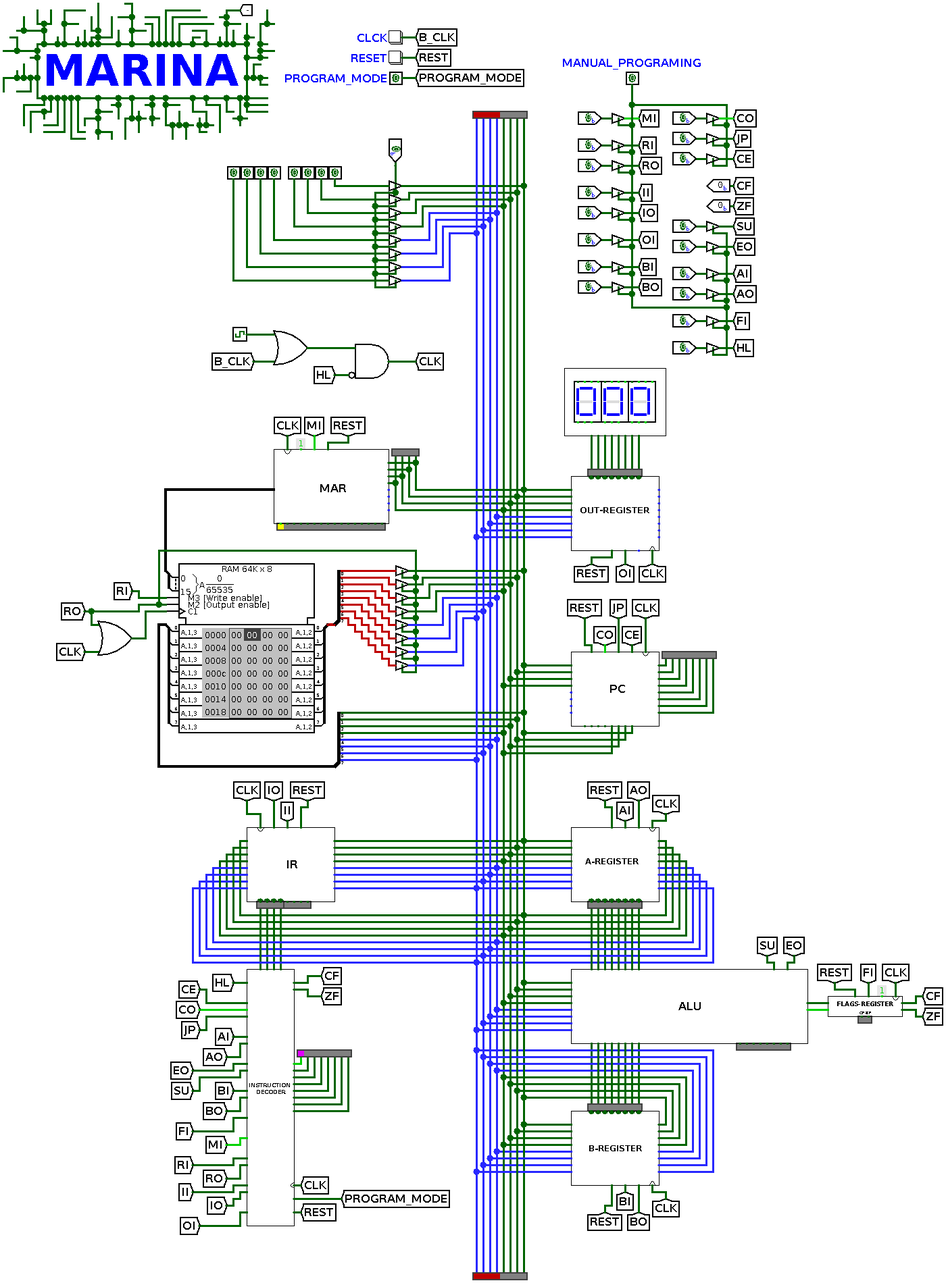
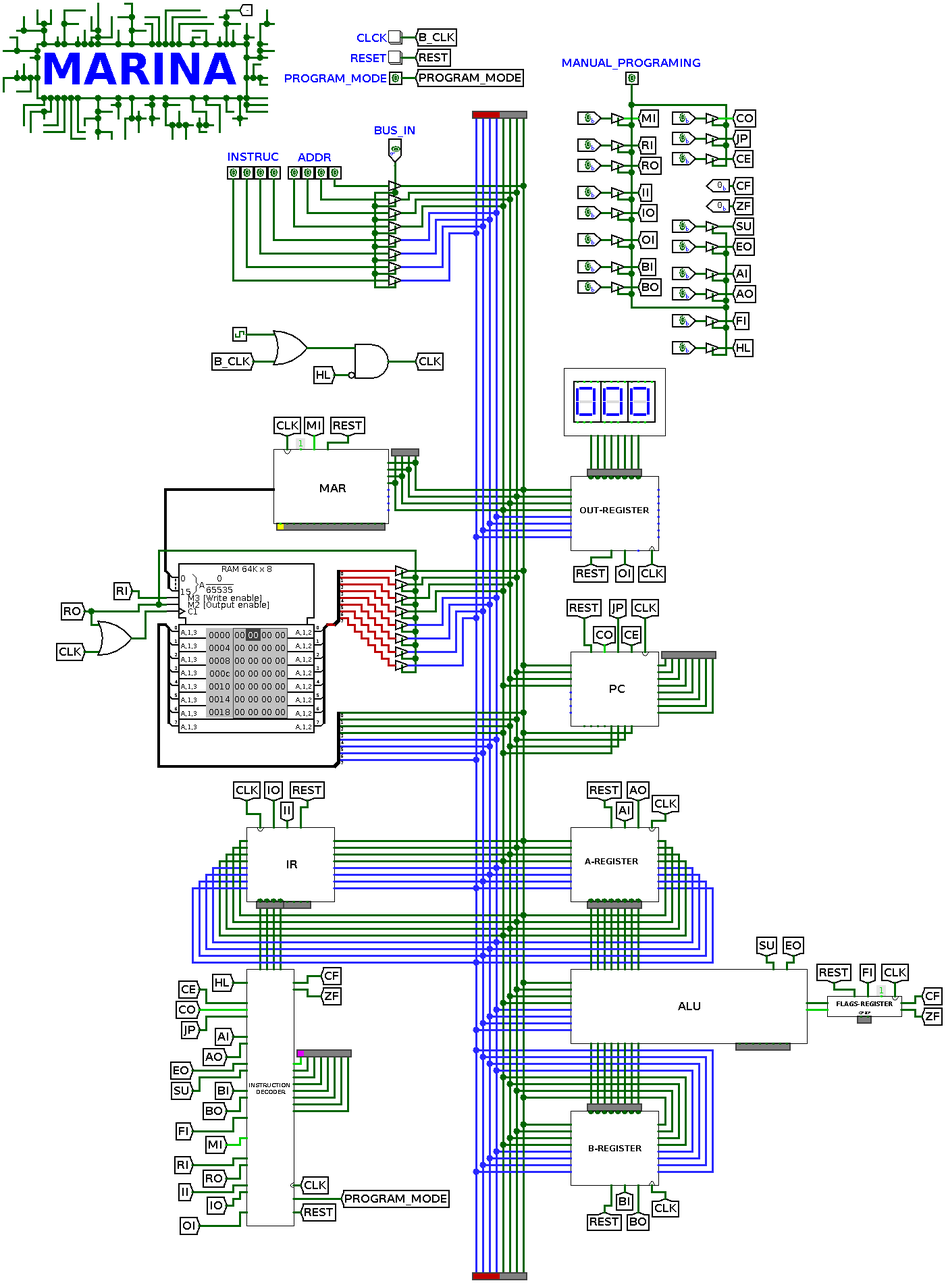
Updating README

diff --git a/README.md b/README.md
@@ -2,23 +2,23 @@
 
 ![](assets/imgs/components/marina-full.png)
 
-Este proyecto trata sobre como crear un ordenador de 8bits, que cumpla los requisitos de una máquina de turing:
+Este proyecto trata sobre como crear un ordenador de 8bits, que cumpla los requisitos de una máquina de Turing:
 
 * Leer/Escribir caracteres de una memoria
 * Poder moverse por esa memoria
-* Actuar en base a unos estados definidos
+* Actuar con base en unos estados definidos
 
 Una vez nuestro ordenador cumpla todos estos requisitos, estaremos seguros de que podra ejecutar cualquier algoritmo de computación.
 
-Todo esto inspirado por la serie de videos de Ben Eater y contado por mi.
+Todo esto inspirado por la serie de videos de Ben Eater y contado por mí.
 
 ## Problema
 
 Queremos hacer un ordenador así que necesitaremos resolver estas cuestiones:
 
 1. ¿Dónde lo vamos a montar?
-2. ¿Qué diseño tendra el circuito?
-3. ¿Cuál es la base teorica detras de los ordenadores?
+2. ¿Qué diseño tendrá el circuito?
+3. ¿Cuál es la base teórica detrás de los ordenadores?
 4. ¿Qué componentes necesitamos para la parte practica?
 5. ¿Cómo se programa?
 
@@ -26,17 +26,17 @@ Queremos hacer un ordenador así que necesitaremos resolver estas cuestiones:
 
 ### 1º Cuestión:
 
-Para crear el circuito de nuestro ordenador usaremos un programa de simulación de circuitos, en este caso yo he elegido logisim-evolution, pero se puede utilizar otro si lo quereis.
+Para crear el circuito de nuestro ordenador usaremos un programa de simulación de circuitos, en este caso yo he elegido logisim-evolution, pero se puede utilizar otro si lo queréis.
 
 ### 2º Cuestión:
 
-A la hora de elegir que forma tendra el circuito se habren una infinidad de diseños, pero en lo personal prefiero usar uno basado en un BUS. Más concretamente el patrón SAP.
+A la hora de elegir que forma tendrá el circuito se abren una infinidad de diseños, pero en lo personal prefiero usar uno basado en un BUS. Más concretamente el patrón SAP.
 
 ![](assets/imgs/SAP.png)
 
 ### 3º Cuestión:
 
-Estamos siguiendo los pasos para crear un ordenador, pero. ¿Qué es un ordenador?, pues segun wikipedia es: `una máquina electrónica digital programable que ejecuta una serie de comandos para procesar los datos de entrada, obteniendo convenientemente información que posteriormente se envía a las unidades de salida`. Y eso es cierto, pero lo que yo quiero es la definición de su modelo teorico fundamental, la máquina de Turing.
+Estamos siguiendo los pasos para crear un ordenador, pero. ¿Qué es un ordenador?, pues según Wikipedia es: `una máquina electrónica digital programable que ejecuta una serie de comandos para procesar los datos de entrada, obteniendo convenientemente información que posteriormente se envía a las unidades de salida`. Y eso es cierto, pero lo que yo quiero es la definición de su modelo teórico fundamental, la máquina de Turing.
 
 #### ¿Qué es la máquina de Turing?
 
@@ -52,18 +52,18 @@ Y ahora con una tabla más compleja:
 
 ![](assets/imgs/turing_machine_complex.gif)
 
-Simple ¿no?, pues solo con estas mecanicas tan cencillas se puede ejecutar cualquier algoritmo de computación. Y la verdad, suena a que es mentira o imposible, pero no lo es:
+Simple ¿no?, pues solo con estas mecánicas tan sencillas se puede ejecutar cualquier algoritmo de computación. Y la verdad, suena a que es mentira o imposible, pero no lo es:
 
-En terminos generales lo que hace la maquina es leer datos de una memoria y actuar en base a ellos siguiendo unas instrucciones predefinidas. ¿No os suena familiar?, es como programar un ordenador, este tambien manipula una memoria siguiendo unas instrucciones/estados que le hemos dado.
+En términos generales, lo que hace la máquina es leer datos de una memoria y actuar con base en ellos siguiendo unas instrucciones predefinidas. ¿No os suena familiar?, es como programar un ordenador, este también manipula una memoria siguiendo unas instrucciones/estados que le hemos dado.
 
-Ahora con todo este contexto podemos decir que:
+Ahora, con todo este contexto, podemos decir que:
 
 * Sabemos que es y que hace la máquina de Turing
-* Que un ordenador moderno no es más que una máquina de Turing extremadamente compleja que funciona con circuitos electronicos
+* Que un ordenador moderno no es más que una máquina de Turing extremadamente compleja que funciona con circuitos electrónicos
 
 ### 4º Cuestión:
 
-Ahora para llevar acabo su construcción necesitaremos los siguientes componentes:
+Ahora, para llevar a cabo su construcción necesitaremos los siguientes componentes:
 
 #### `CLOCK`
 
@@ -81,7 +81,7 @@ Es un registro que guarda un número que puede incrementar y decrementar, para m
 
 #### `MAR`
 
-Es el registro de direccion de la memoria, almacena un número de 4bits y lo decodifica en 16  direcciones de memoria posibles. Para usarlo como dirección actual de la memoria.
+Es el registro de dirección de la memoria, almacena un número de 4bits y lo decodifica en 16 direcciones de memoria posibles. Para usarlo como dirección actual de la memoria.
 
 ![](assets/imgs/components/MAR.png)
 
@@ -111,7 +111,7 @@ Almacena el número que la ALU suma o resta al REGISTRO A.
 
 #### `ALU`
 
-Es la encargada de hacer las operaciones aritmeticas(+,-), con los REGISTROS A y B.
+Es la encargada de hacer las operaciones aritméticas(+,-), con los REGISTROS A y B.
 
 ![](assets/imgs/components/alu.png)
 
@@ -119,7 +119,7 @@ Es la encargada de hacer las operaciones aritmeticas(+,-), con los REGISTROS A y
 
 #### `FLAGS REGISTER`
 
-Es el registro que almacena el estado de la ultima operación de la ALU, si el resultado anterior acarreo un 1 activa la CARRING FLAG o si el resultado fue 0 activa la ZERO FLAG.
+Es el registro que almacena el estado de la última operación de la ALU, si el resultado anterior acarreo un 1 activa la CARRING FLAG o si el resultado fue 0 activa la ZERO FLAG.
 
 ![](assets/imgs/components/flags.png)
 
@@ -127,7 +127,7 @@ Es el registro que almacena el estado de la ultima operación de la ALU, si el r
 
 #### `REGISTRO DE INSTRUCCIONES`
 
-Es el regisro que guarda la instruccion a ejecutar, para pasarsela al decodificador de instrucciones.
+Es el registro que guarda la instrucción a ejecutar, para pasársela al decodificador de instrucciones.
 
 ![](assets/imgs/components/register-instruc.png)
 
@@ -143,13 +143,13 @@ Es el encargado de decodificar las instrucciones programadas en la RAM para que 
 
 #### `BUS`
 
-Son unos cables a los que se le conectan todos los componentes del ordenador, para comunicarse entre si.
+Son unos cables a los que se le conectan todos los componentes del ordenador, para comunicarse entre sí.
 
 ![](assets/imgs/components/BUS.png)
 
 ### 5º Cuestión:
 
-Vale ahora sí, la pieza final para entender como funciona un ordenador es entender cómo es que es programable, porque al fin y al cabo ¿cómo hacemos que el ordenador ejecute las instrucciones que le damos?. Por ejemplo, un programa que suma 2 más 2 y muestra el resultado:
+Vale ahora sí, la pieza final para entender como funciona un ordenador es entender cómo es que es programable, porque al fin y al cabo, ¿cómo hacemos que el ordenador ejecute las instrucciones que le damos?. Por ejemplo, un programa que suma 2 más 2 y muestra el resultado:
 
 ```
 LDA 15
@@ -157,7 +157,7 @@ ADD 15
 OUT
 ```
 
-Lo que he hecho aquí es cargar en el registro A lo que halla en la dirección de memoria 15, en este caso un 2, despues le he sumado al registro A otra vez el valor de la dirección de memoria 15 y he mostrado el resultado.
+Lo que he hecho aquí es cargar en el registro A lo que halla en la dirección de memoria 15, en este caso un 2, después le he sumado al registro A otra vez el valor de la dirección de memoria 15 y he mostrado el resultado.
 
 #### ¿CÓMO?, pues asi:
 
@@ -165,15 +165,15 @@ Cogemos y por cada instrucción que pueda interpretar el ordenador, la rompemos 
 
 HL CE CO JP AI AO EO SU BI BO FI MI RI RO II IO	OI
 
-Estos son los micro codigos con los que nos referimos a acciones como:
+Estos son los microcódigos con los que nos referimos a acciones como:
 
-* HL: Para el reloj
+* HL: Parar el reloj
 * AI: Meter en el registro A lo que haya en el BUS
 * CO: Volcar lo que tiene el PC en el BUS
 
 Vale, pues vamos a desmontar la siguiente instrucción.
 
-##### ```LDA 15```
+#### ``LDA 15``
 
 1. CO MI
 2. RO II
@@ -181,29 +181,92 @@ Vale, pues vamos a desmontar la siguiente instrucción.
 4. IO MI
 5. RO AI
 
-CO volcamos en el BUS la dirección actual del PC y lo metemo en el MAR para ir a esa dirección de memoria.
+CO volcamos en el BUS la dirección actual del PC y lo metemos en el MAR para ir a esa dirección de memoria.
 
 RO volcamos lo que hay en esa posición de la RAM y lo metemos en el registro de instrucciones.
 
-CE el PC aumenta el contador, para que la proxima vez que hagamos un CO se la siguiente dirección de memoria.
+CE el PC aumenta el contador, para que la próxima vez que hagamos un CO sé la siguiente dirección de memoria.
 
-IO volcamos lo que hay en el registro de instucciones en el BUS, pero este registro solo saca los 4bits que corresponde a la dirección 15 indicada en la instrucción. MI para ir a esa dirección de memoria.
+IO volcamos lo que hay en el registro de instrucciones en el BUS, pero este registro solo saca los 4bits que corresponde a la dirección 15 indicada en la instrucción. MI para ir a esa dirección de memoria.
 
 RO sacamos el valor que haya en esa posición de la RAM y lo metemos en el registro A.
 
-Y así con cada instrucción que tenga nuestra máquina. Aquí podeis ver las instrucciones con sus microcodigos que tiene MARINA. Hay tambien vereis que los micro códigos se dividen tambien en steps(pasos), porque hay micro códigos que no se pueden ejecutar a la vez o no interesa hacerlo, así que rompemos la ejecución de los micro códigos en 8 pasos.
+Y así con cada instrucción que tenga nuestra máquina. Aquí podéis ver las instrucciones con sus microcódigos que tiene MARINA. Hay también veréis que los microcódigos se dividen también en steps(pasos), porque hay microcódigos que no se pueden ejecutar a la vez o no interesa hacerlo, así que rompemos la ejecución de los microcódigos en 8 pasos.
 
 De esto se encarga el decodificador de instrucciones:
 
 ![](assets/imgs/components/instruction_decoder_in.png)
 
-### Generación de las ROMs:
+### Generación de la ROM:
 
-Pues lo que necesitamos para que el ordenador sepa que micro códigos ejecutar y cuando utilizaremos una ROM. Usaremos las instrucciones como dirección y como datos en esa dirección que micro códigos tenemos que ejecutar. Cuando le llegue una instrucción al decodificador de instrucciones, este mirara en la ROM, segun que instrucción y paso es, sabra que micro código tiene que ejecutar.
+Para que el ordenador sepa qué microcódigos ejecutar y cuando, utilizaremos una ROM. Usaremos las instrucciones como dirección y como datos en esa dirección que microcódigos tenemos que ejecutar. Cuando le llegue una instrucción al decodificador de instrucciones, este mirara en la ROM, según qué instrucción y paso es, sabrá qué microcódigo tiene que ejecutar.
 
 Podemos generar la ROM con este archivo `instruc_decoder_rom_generator.py`.
 
 ### ¿Cómo usar a MARINA?
 
-Para poder ejecutar un programas lo unico que hay que hacer es cargar en la RAM las instrucciones, entrar en la pestaña Simulate y activar el auto-click.
+Para poder ejecutar un programa lo único que hay que hacer es cargar en la RAM las instrucciones, para ello hay dos formas diferentes: la manual o con el compilador.
 
+#### Manual
+
+Miramos los mnemónicos de la tabla de instrucciones, realizamos el programa y con la misma tabla, los pasamos a su valor binario:
+
+```
+LDA 15
+ADD 15
+OUT
+```
+
+
+| ADDR | INSTRUC | VALUE | RAM ADDR | INSTRUC | VALUE ADDR |
+| :----: | :-------: | :-----: | :--------: | :-------: | :----------: |
+|  0  |   LDA   |  15  |   0000   |  0010  |    1111    |
+|  1  |   ADD   |  15  |   0001   |  0011  |    1111    |
+|  2  |   OUT   |   0   |   0010   |  1010  |    0000    |
+
+Activamos los pines de programación manual, y la secuencia para meterlos en la RAM es:
+
+![](assets/imgs/components/manual-commands.png)
+
+Ponemos en el ADDR la dirección de memoria de la 1º instrucción:
+
+0000 0000, BUS_IN, MI, CLOCK
+
+Y cuando estamos en la dirección 0.
+
+![](assets/imgs/components/manual-commands-2.png)
+
+0010 1111, BUS_IN, RI, CLOCK
+
+Y así con las instrucciones restantes, hasta que necesitemos introducir las variables necesarias como la dirección 15 que guarda un 2.
+
+0000 1111, BUS_IN, MI, CLOCK
+0000 0010, BUS_IN, RI, CLOCK
+
+#### Compilador
+
+Otra vez hacemos el programa usando los mnemónicos de la tabla de instrucciones y usando el archivo `compilador.py` ponemos los mnemónicos aquí:
+
+![](assets/imgs/compiler/program-list.png)
+
+Y las direcciones de las instrucciones aquí:
+
+![](assets/imgs/compiler/program-list-addr.png)
+
+Sí, el programa necesita alguna variable como el 1 de la dirección 15, se pone aquí:
+
+![](assets/imgs/compiler/program-value.png)
+
+Ejecutamos el `compilador.py` y nos genera el archivo ROM correspondiente al programa, ahora solo habría que cargar el archivo en la RAM, dándole click derecho en sobre la RAM y eligiendo la ROM que cargar.
+
+Ya lo sé, no es muy cómodo, pero el proyecto ya se está alargando demasiado y no me da para desarrollar una lectura de fichero.
+
+Independientemente del método, al final hay que entrar en la pestaña Simulate y activar el auto-click.
+
+## Agradecimientos y fuentes
+
+* Fuente principal del proyecto, tanto por la parte teórica y práctica: Ben Eater
+* Punto de referencia principal a la hora de diseñar los componentes en logisim-evolution: Leonardo Berardino
+* Como usar las puertas lógicas: Karl Rombauts
+* Contexto de otro proyecto: spel3o
+* Contexto de otro proyecto: eddiewastaken

diff --git a/bitácora.md b/bitácora.md
@@ -14,18 +14,18 @@ Procesadores de referencia
 * [https://github.com/eddiewastaken/logisim-discrete-CPU](https://github.com/eddiewastaken/logisim-discrete-CPU)
 * [https://github.com/leonicolas/computer-8bits](https://github.com/leonicolas/computer-8bits)
 
-Preguntando a ChatGPT sobre cual es la secuenciea que sigue el procesador a dicho [respuesta](examples/cycle.md)
+Preguntando a ChatGPT sobre cuál es la secuencia que sigue el procesador ha dicho [respuesta](examples/cycle.md)
 
 ## 06-03-2023 Día 2:
 
-Estoy atascado, he mirado otros procesadores y ya tengo un entendimiento sobre la parte fisica como para empezar a plantear el mio, sin embargo no tengo idea alguna de cual es su funcíonamiento logico a la hora de ejecutar las instrucciones de la memoria.
+Estoy atascado, he mirado otros procesadores y ya tengo un entendimiento sobre la parte física como para empezar a plantear el mío, sin embargo, no tengo idea alguna de cuál es su funcionamiento lógico a la hora de ejecutar las instrucciones de la memoria.
 
-Empezare por entender control matrix:
+Empezaré por entender control Matrix:
 
-* La Control Matrix es una técnica utilizada en el diseño y desarrollo de sistemas electrónicos digitales, que se utiliza para coordinar y controlar el flujo de señales en el sistema.
-* En esencia, la Control Matrix es una tabla que describe cómo las diferentes señales en el sistema interactúan entre sí y cómo se coordinan para producir los resultados deseados. La Control Matrix describe las entradas, salidas y señales internas del sistema, y cómo se combinan para realizar operaciones específicas.
+* El Control Matrix es una técnica utilizada en el diseño y desarrollo de sistemas electrónicos digitales, que se utiliza para coordinar y controlar el flujo de señales en el sistema.
+* En esencia, el Control Matrix es una tabla que describe cómo las diferentes señales en el sistema interactúan entre sí y cómo se coordinan para producir los resultados deseados. El Control Matrix describe las entradas, salidas y señales internas del sistema, y cómo se combinan para realizar operaciones específicas.
 
-Esa es la difinicon de ChatGPT, pero eso no importa, al buscar informacion acerca del "control matrix" me ha llevado de nuevo al canal de [Ben Eater](https://www.youtube.com/@BenEater), con la diferencia de que ahora me he fijado mejor en una serie de [videos](https://www.youtube.com/watch?v=dXdoim96v5A&list=PLowKtXNTBypGqImE405J2565dvjafglHU&index=37) que explican justamente lo que me habia dejado atascado, olé.
+Esa es la definición de ChatGPT, pero eso no importa, al buscar información acerca del “control Matrix” me ha llevado de nuevo al canal de [Ben Eater](https://www.youtube.com/@BenEater), con la diferencia de que ahora me he fijado mejor en una serie de [videos](https://www.youtube.com/watch?v=dXdoim96v5A&list=PLowKtXNTBypGqImE405J2565dvjafglHU&index=37) que explican justamente lo que me habría dejado atascado, olé.
 
 ## 10-03-2023 Día 3:
 
@@ -33,17 +33,18 @@ Estoy trasteando un poco con los componentes (j-k flip flop) para crear mis prop
 
 ## 11-03-2023 Día 4:
 
-Al final sustitui los j-k por registers (que se puende utilizar más de 1 bit). He tenido problemas para editar la apariencia de mis circutitos custom, pero como no... era que habia que habilitar que se vieran de la manera personalizada y no de la default 🥴.
+Al final sustituí los j-k por registers (que se puede utilizar más de 1 bit). He tenido problemas para editar la apariencia de mis circuitos custom, pero como no... era que había que habilitar que se vieran de la manera personalizada y no de la default 🥴.
 
-Ya tengo una primera versión de los registros, ahora voy ha hacer la alu.
+Ya tengo una primera versión de los registros, ahora voy a hacer la alu.
 
 Termina la alu solo le falta cambiar la apariencia del circuito.
 
 ## 12-03-2023 Día 5:
 
-Hoy he terminado el aspector custom de la ALU y he mejorador los registros personalizandolos por separado (A-B) para que se adapten mejor a la arquitectura que quiero.
+Hoy he terminado el aspecto custom de la ALU y he mejorador los registros personalizándolos por separado (A-B) para que se adapten mejor a la arquitectura que quiero.
 
-He tenido que hacer un rediseño porque no sabia que los registros tenian que poder poner lo que tenian en el bus.
+
+He tenido que hacer un rediseño porque no sabía que los registros tenían que poder poner lo que tenían en el bus.
 
 ## 13-03-2023 Dia 6:
 
@@ -51,7 +52,7 @@ He añadido la RAM más el registro MAR, lo he probado y funciona correctamente
 
 ## 14-03-2023 Día 7:
 
-He añadido el contador de programa (PC), lo he probado y puede contar, recivir una dirección en cualquier momento y puedo enviarlo al bus.
+He añadido el contador de programa (PC), lo he probado y puede contar, recibir una dirección en cualquier momento y puedo enviarlo al bus.
 
 ## 18-03-2023 Día 8:
 
@@ -67,9 +68,9 @@ Añadido del registro de instrucciones, más las conexiones de los diferentes co
 
 ## 21-03-2023 Día 11:
 
-Hoy sigo con el decodificador de instrucciones, pero por el camino he tenido que cambiar el MAR porque no habia entendido bien como decodificaba los 4bits de dirección, por lo demas, pruebas manuales para ver que todo funviona bien. Siguiendo con las mejoras he hecho que los LEDs de información sean más rapidos de con sultar cambiandolos de color, he visto que tenia un componente que cogia más bits de los que necesitaba como el MAR y el PC. Junto con un apaño (añadido de una OR al su entrada de reloj) de la RAM ya que esta no funcionaba igual que la de Ben Eater y consumia una instrucción de más.
+Hoy sigo con el decodificador de instrucciones, pero por el camino he tenido que cambiar el MAR porque no había entendido bien como decodificaba los 4bits de dirección, por lo demás, pruebas manuales para ver que todo funviona bien. Siguiendo con las mejoras he hecho que los LEDs de información sean más rápidos de consultar cambiándolos de color, he visto que tenía un componente que cogía más bits de los que necesitaba como el MAR y el PC. Junto con un apaño (añadido de una OR al su entrada de reloj) de la RAM, ya que esta no funcionaba igual que la de Ben Eater y consumía una instrucción de más.
 
-Cambios importantes en los registros A y B, los outputs que alimentan a la ALU, estaban al reves 🤬.
+Cambios importantes en los registros A y B, los outputs que alimentan a la ALU, estaban al revés 🤬.
 He conseguido ejecutar el primer programa (manualmente (sin ID)) del procesador olé.
 
 ```
@@ -78,33 +79,33 @@ ADD 15
 OUT
 ```
 
-Tanto 14 como 15 son direciones de memoria.
+Tanto 14 como 15 son direcciones de memoria.
 
-He terminado la plantilla de execl para definir mis instrucciones y sus micro-códigos. Día productivo.
+He terminado la plantilla de Excel para definir mis instrucciones y sus microcódigos. Día productivo.
 
 ## 23-03-2023 Día 12:
 
-Hoy le he dado forma al decodificador de instrucciones y conectado al mismo. Tambien he conectado todos los componentes mediante "tuneles" y le ha dado un aspecto mucho más limpio.
+Hoy le he dado forma al decodificador de instrucciones y conectado al mismo. También he conectado todos los componentes mediante "túneles" y le ha dado un aspecto mucho más limpio.
 
-Siguiendo con el desarrollo del decodificador de instrucciones he creado un execl con unas instrucciones basicas para utilizarlas de referencia. Tengo que comprobar que estan bien y hacer un script para generar la ROM
+Siguiendo con el desarrollo del decodificador de instrucciones, he creado un Excel con unas instrucciones básicas para utilizarlas de referencia. Tengo que comprobar que están bien y hacer un script para generar la ROM
 
 ## 24-03-2023 Día 13:
 
-Hoy he empezado con la generación de la ROM y he hecho muchos progresos: generar una ROM valida vacia, generar las posibles direcciones de las instrucciones segun su step, flags, número.
+Hoy he empezado con la generación de la ROM y he hecho muchos progresos: generar una ROM válida vacía, generar las posibles direcciones de las instrucciones, según su step, flags, número.
 
 ## 25-03-2023 Día 14:
 
-Al final he tenido que crear yo mismo un modulo que trabaja con la ROM, pero ya lo he conseguido, ya puedo generar la rom, leerla, escribirla como yo quiera... uf.
+Al final he tenido que crear yo mismo un módulo que trabaja con la ROM, pero ya lo he conseguido, ya puedo generar la ROM, leerla, escribirla como yo quiera… uf.
 
-Me he encontrando muchos bugs en el código que genera la ROM, muchos bugs en el circuito real, problemas con los micro códigos de las instrucciones. He estado todo el día con encontrandome un problema tras otro... PERO AL FINAL LO HE CONSEGUIDO, HE LOGRADO EJECUTAR EL PROGRAMA DE SUMA BASICA   OLEEEEEEEEEEEEEEEE JODEEEEEEEEEEEEEEEEEEEEEEEEER.
+Me he encontrado muchos bugs en el código que genera la ROM, muchos bugs en el circuito real, problemas con los microcódigos de las instrucciones. He estado todo el día con encontrándome un problema tras otro… PERO AL FINAL LO HE CONSEGUIDO, HE LOGRADO EJECUTAR EL PROGRAMA DE SUMA BÁSICA OLEEEEEEEEEEEEEEEE JODEEEEEEEEEEEEEEEEEEEEEEEEER.
 
-He empezado a pasar los circuitos en sucio a un nuevo proyecto en limpio, tambien he decidio el nombre del ordenador, Marina.
+He empezado a pasar los circuitos en sucio a un nuevo proyecto en limpio, también he decidió el nombre del ordenador, Marina.
 
 ## 26-03-2023 Día 15:
 
-Hoy he terminado de pasar los circuitos a limpio en un proyecto nuevo y tambien le he dado a Marina la complejidad de Turing al añadir los saltos condicionales. Ahora Marina no solo puede actuar en base a lo que lee en su memoria, si no que tambien a las condicionales que nosotros queramos.
+Hoy he terminado de pasar los circuitos a limpio en un proyecto nuevo y también le he dado a Marina la complejidad de Turing al añadir los saltos condicionales. Ahora Marina no solo puede actuar con base en lo que lee en su memoria, sino que también a las condicionales que nosotros queramos.
 
-Tambien me he tirado 1 hora rallado por un problema con las direcciones de memoria, el cual era que las habia escrito mal en el papel...🙂.
+También me he tirado 1 hora rallado por un problema con las direcciones de memoria, el cual era que las había escrito mal en el papel…🙂.
 
 Ahora lo que queda es hacer el display decimal para el registro de salida, documentar y subirlo al repo.
 
@@ -112,14 +113,14 @@ Ahora lo que queda es hacer el display decimal para el registro de salida, docum
 
 Hoy he terminado el generador de ROM para el decodificador de 8bits a un display de 7 segmentos, más el circuito para el display. Ahora el registro de salida muestra la salida en decimal.
 
-He cambiado el diseño del circuito principal de Marina, ahora el registro de salida esta arriba, junto con los pines de programación manual y los pines manuales del bus. Para separar la parte de "usuario" de la parte que no requiere la interacción directa.
+He cambiado el diseño del circuito principal de Marina, ahora el registro de salida está arriba, junto con los pines de programación manual y los pines manuales del bus. Para separar la parte de “usuario” de la parte que no requiere la interacción directa.
 
 ## 28-03-2023 Día 17:
 
-Hoy he empezado la documentación de Marina, junto con el compilador. La documentación es bastante exigente  porque estoy tocando mucho la máquina de Turing, pero me esta ayudando a mi propio entendimiento. El compilador no esta siendo muy complicado, pero todabia no lo he acabado así que me callo.
+Hoy he empezado la documentación de Marina, junto con el compilador. La documentación es bastante exigente porque estoy tocando mucho la máquina de Turing, pero me está ayudando a mi propio entendimiento. El compilador no está siendo muy complicado, pero todavía no lo he acabado, así que me callo.
 
-He añadido un marco de cables para el label del nombre y a quedado de locos.
+He añadido un marco de cables para el label del nombre y ha quedado de locos.
 
 ## 29-03-2023 Día 18:
 
-He terminado el compilador, no es muy comodo de usar pero el proyecto se esta alargando demasiado.
+He terminado el compilador, no es muy cómodo de usar, pero el proyecto se está alargando demasiado.
